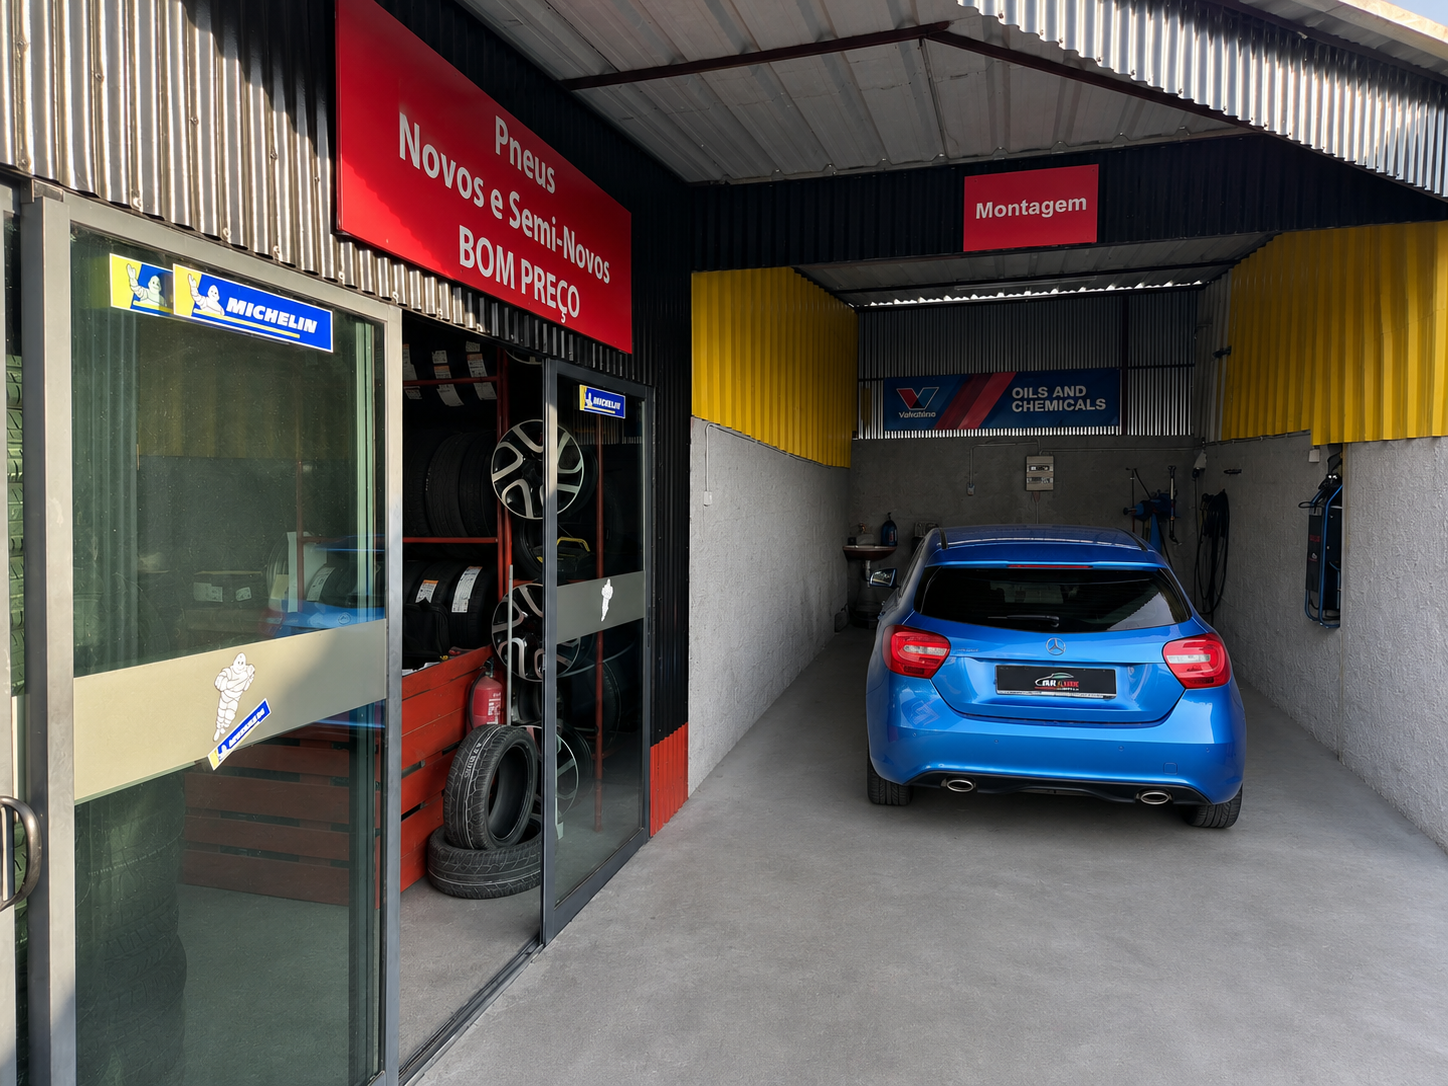
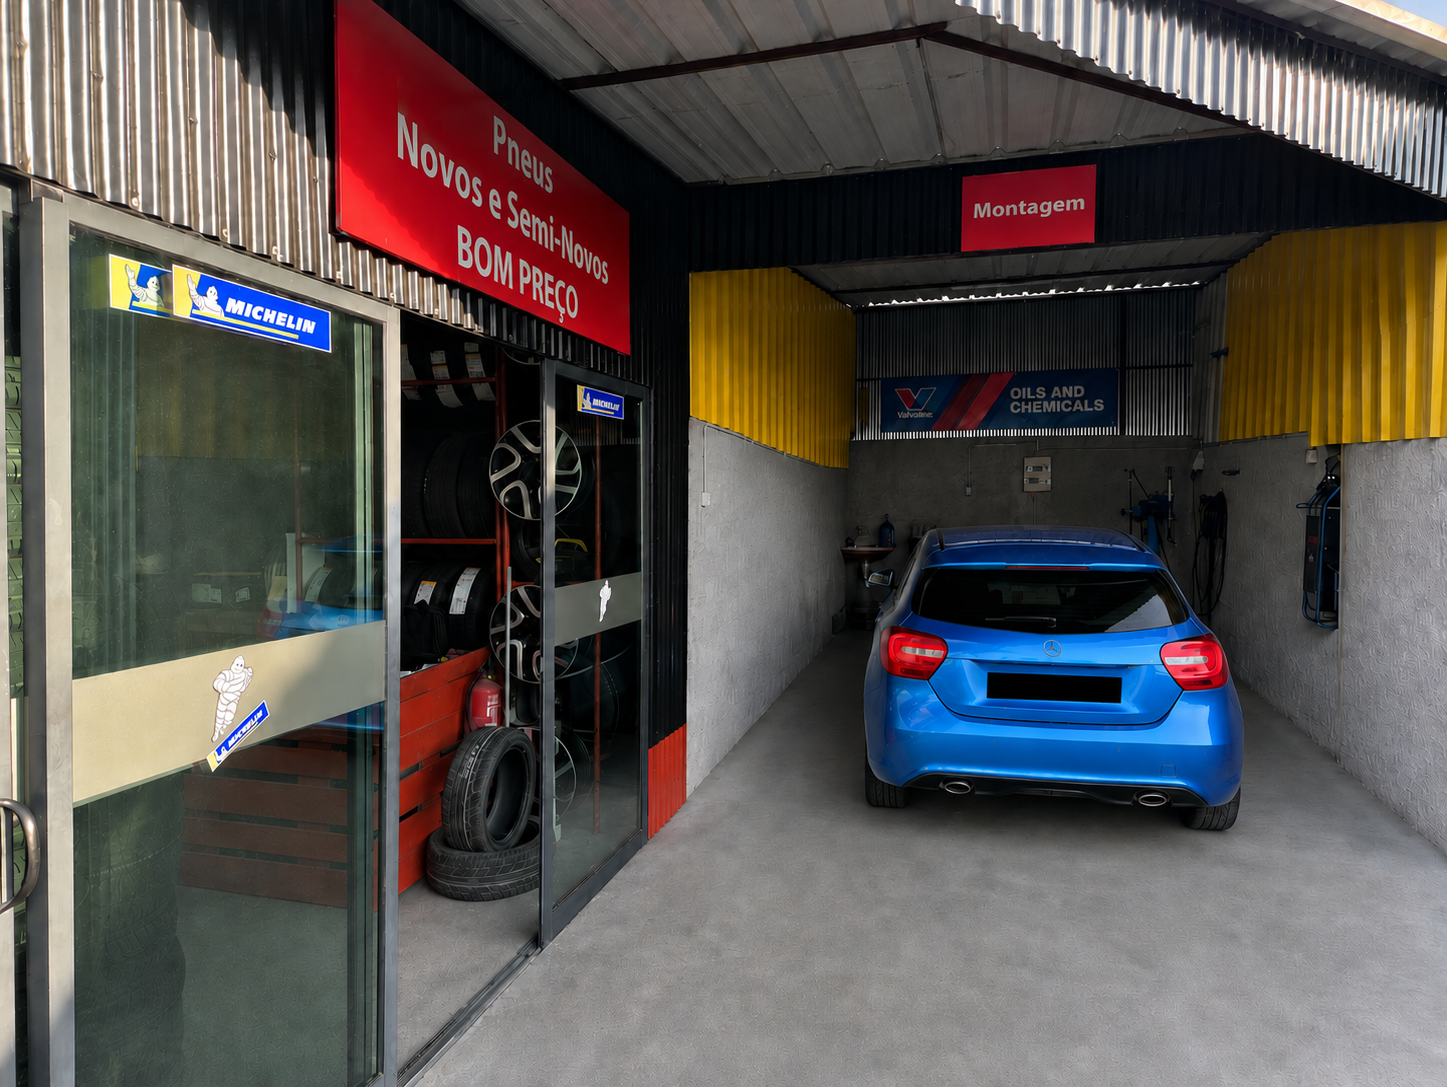
better overall design

diff --git a/css/styles.css b/css/styles.css
@@ -10966,7 +10966,7 @@ header.masthead::before {
   background-repeat: no-repeat;
   background-position: center center;
   background-size: cover;
-  animation: masthead-image-in 0.9s ease both;
+  animation: masthead-image-in 1.35s cubic-bezier(0.22, 1, 0.36, 1) both;
 }
 header.masthead::after {
   position: absolute;
@@ -10974,9 +10974,10 @@ header.masthead::after {
   inset: 0;
   content: "";
   background: linear-gradient(135deg, rgba(16, 48, 65, 0.72), rgba(41, 75, 93, 0.34));
+  transition: opacity 0.8s ease, transform 0.8s ease;
 }
 header.masthead.masthead-image-changing::before {
-  animation: masthead-image-in 0.9s ease both;
+  animation: masthead-image-in 1.35s cubic-bezier(0.22, 1, 0.36, 1) both;
 }
 header.masthead > .container {
   position: relative;
@@ -10984,12 +10985,14 @@ header.masthead > .container {
 }
 @keyframes masthead-image-in {
   from {
-    opacity: 0.2;
-    transform: scale(1.04);
+    opacity: 0.35;
+    transform: scale(1.08);
+    filter: blur(1.4px) saturate(0.9);
   }
   to {
     opacity: 1;
     transform: scale(1);
+    filter: blur(0) saturate(1);
   }
 }
 header.masthead .masthead-subheading {
@@ -11025,22 +11028,56 @@ header.masthead .masthead-heading {
     margin-bottom: 4rem;
   }
 }
+#services {
+  background:
+    radial-gradient(circle at top left, rgba(90, 169, 209, 0.10), transparent 34%),
+    linear-gradient(180deg, #f9fbfd 0%, #f5f8fc 100%);
+}
 #services .services-item {
   max-width: 26rem;
   margin-left: auto;
   margin-right: auto;
+  border-radius: 1.25rem;
+  overflow: hidden;
+  background: linear-gradient(180deg, #ffffff 0%, #f9fbff 100%);
+  border: 1px solid rgba(148, 163, 184, 0.22);
+  box-shadow: 0 0.9rem 2rem rgba(15, 23, 42, 0.12);
+  transition: transform 0.28s ease, box-shadow 0.28s ease;
+}
+#services .services-item:hover {
+  transform: translateY(-0.42rem);
+  box-shadow: 0 1.15rem 2.4rem rgba(15, 23, 42, 0.2);
 }
 #services .services-item .services-link {
   position: relative;
   display: block;
   margin: 0 auto;
+  isolation: isolate;
+}
+#services .services-item .services-link::after {
+  content: "";
+  position: absolute;
+  inset: 0;
+  border-radius: 0.85rem;
+  border: 1px solid rgba(255, 255, 255, 0.45);
+  pointer-events: none;
+}
+#services .services-item .services-link img {
+  display: block;
+  width: 100%;
+  height: 18rem;
+  object-fit: cover;
+}
+#services .services-item .services-link:hover img {
+  transform: scale(1.045);
+  transition: transform 0.38s ease;
 }
 #services .services-item .services-link .services-hover {
   display: flex;
   position: absolute;
   width: 100%;
   height: 100%;
-  background: rgba(90, 169, 209, 0.92);
+  background: linear-gradient(135deg, rgba(90, 169, 209, 0.92), rgba(15, 118, 177, 0.86));
   align-items: center;
   justify-content: center;
   opacity: 0;
@@ -11049,19 +11086,24 @@ header.masthead .masthead-heading {
 #services .services-item .services-link .services-hover .services-hover-content {
   font-size: 1.25rem;
   color: white;
+  text-shadow: 0 0.2rem 0.6rem rgba(0, 0, 0, 0.25);
 }
 #services .services-item .services-link:hover .services-hover {
   opacity: 1;
 }
 #services .services-item .services-caption {
-  padding: 1.5rem;
+  padding: 1.4rem 1.4rem 1.6rem;
   text-align: center;
-  background-color: #fff;
+  background: linear-gradient(180deg, #ffffff 0%, #f8fbff 100%);
+  border-top: 1px solid rgba(148, 163, 184, 0.16);
 }
 #services .services-item .services-caption .services-caption-heading {
-  font-size: 1.5rem;
+  font-size: 1.48rem;
+  line-height: 1.45;
+  color: #10233e;
   font-family: "Montserrat", -apple-system, BlinkMacSystemFont, "Segoe UI", Roboto, "Helvetica Neue", Arial, sans-serif, "Apple Color Emoji", "Segoe UI Emoji", "Segoe UI Symbol", "Noto Color Emoji";
-  font-weight: 700;
+  font-weight: 800;
+  letter-spacing: 0.02em;
   margin-bottom: 0;
 }
 #services .services-item .services-caption .services-caption-subheading {
@@ -11074,13 +11116,22 @@ header.masthead .masthead-heading {
   max-width: 100vw;
 }
 .services-modal .modal-content {
-  padding-top: 6rem;
-  padding-bottom: 6rem;
+  padding: 4.5rem 2rem 3rem;
   text-align: center;
+  border: 0;
+  border-radius: 1.3rem;
+  box-shadow: 0 1.2rem 3rem rgba(15, 23, 42, 0.24);
+  background: linear-gradient(180deg, #ffffff 0%, #f6faff 100%);
+}
+.services-modal .modal-body {
+  padding: 0.5rem 0.25rem;
 }
 .services-modal .modal-content h2, .services-modal .modal-content .h2 {
-  font-size: 3rem;
-  line-height: 3rem;
+  font-size: 2.5rem;
+  line-height: 1.2;
+  letter-spacing: 0.04em;
+  color: #0f172a;
+  text-transform: uppercase;
 }
 .services-modal .modal-content p.item-intro {
   font-style: italic;
@@ -11088,13 +11139,25 @@ header.masthead .masthead-heading {
   font-family: "Roboto Slab", -apple-system, BlinkMacSystemFont, "Segoe UI", Roboto, "Helvetica Neue", Arial, sans-serif, "Apple Color Emoji", "Segoe UI Emoji", "Segoe UI Symbol", "Noto Color Emoji";
 }
 .services-modal .modal-content p {
-  margin-bottom: 2rem;
+  margin: 0 auto 2rem;
+  max-width: 42rem;
+  color: #334155;
+  font-size: 1.08rem;
+  line-height: 1.95;
+  text-align: center;
+  font-weight: 600;
+  padding: 1rem 1.1rem;
+  background: rgba(255, 255, 255, 0.72);
+  border-radius: 0.9rem;
 }
 .services-modal .modal-content ul.list-inline {
   margin-bottom: 2rem;
 }
 .services-modal .modal-content img {
-  margin-bottom: 2rem;
+  display: block;
+  margin: 0 auto 2rem;
+  border-radius: 0.95rem;
+  box-shadow: 0 0.9rem 1.8rem rgba(15, 23, 42, 0.14);
 }
 .services-modal .close-modal {
   position: absolute;
@@ -11426,12 +11489,16 @@ section#contact form#contactForm :-ms-input-placeholder {
     max-width: 22rem;
   }
 
+  #services .services-item .services-link img {
+    height: 15rem;
+  }
+
   #services .services-item .services-caption {
     padding: 1rem;
   }
 
   #services .services-item .services-caption .services-caption-heading {
-    font-size: 1.2rem;
+    font-size: 1.15rem;
   }
 
   .services-modal .modal-content {
@@ -11440,8 +11507,13 @@ section#contact form#contactForm :-ms-input-placeholder {
 
   .services-modal .modal-content h2,
   .services-modal .modal-content .h2 {
-    font-size: 2rem;
-    line-height: 1.15;
+    font-size: 1.8rem;
+    line-height: 1.2;
+  }
+
+  .services-modal .modal-content p {
+    font-size: 0.98rem;
+    line-height: 1.75;
   }
 
   .timeline > li .timeline-panel {

diff --git a/index.html b/index.html
@@ -237,6 +237,7 @@
                                     <!-- Project details-->
                                     <h2 class="text-uppercase">SNACK-BAR</h2>
                                     <img class="img-fluid d-block mx-auto" src="assets/img/portfolio/3.jpeg" alt="..." />
+                                    <img class="img-fluid d-block mx-auto" src="assets/img/portfolio/3.2.jpeg" alt="..." />
                                     <p>No nosso Snack Bar, encontra o café perfeito para começar o dia ou fazer uma pausa merecida. Servimos café de qualidade, uma grande variedade de bebidas quentes e frias, refrigerantes, sumos e cervejas, sempre acompanhados por um atendimento simpático e um ambiente acolhedor. Também dispomos de snacks ligeiros e petiscos para acompanhar a sua bebida, tornando cada visita ainda mais agradável.</p>
                                 </div>
                             </div>
